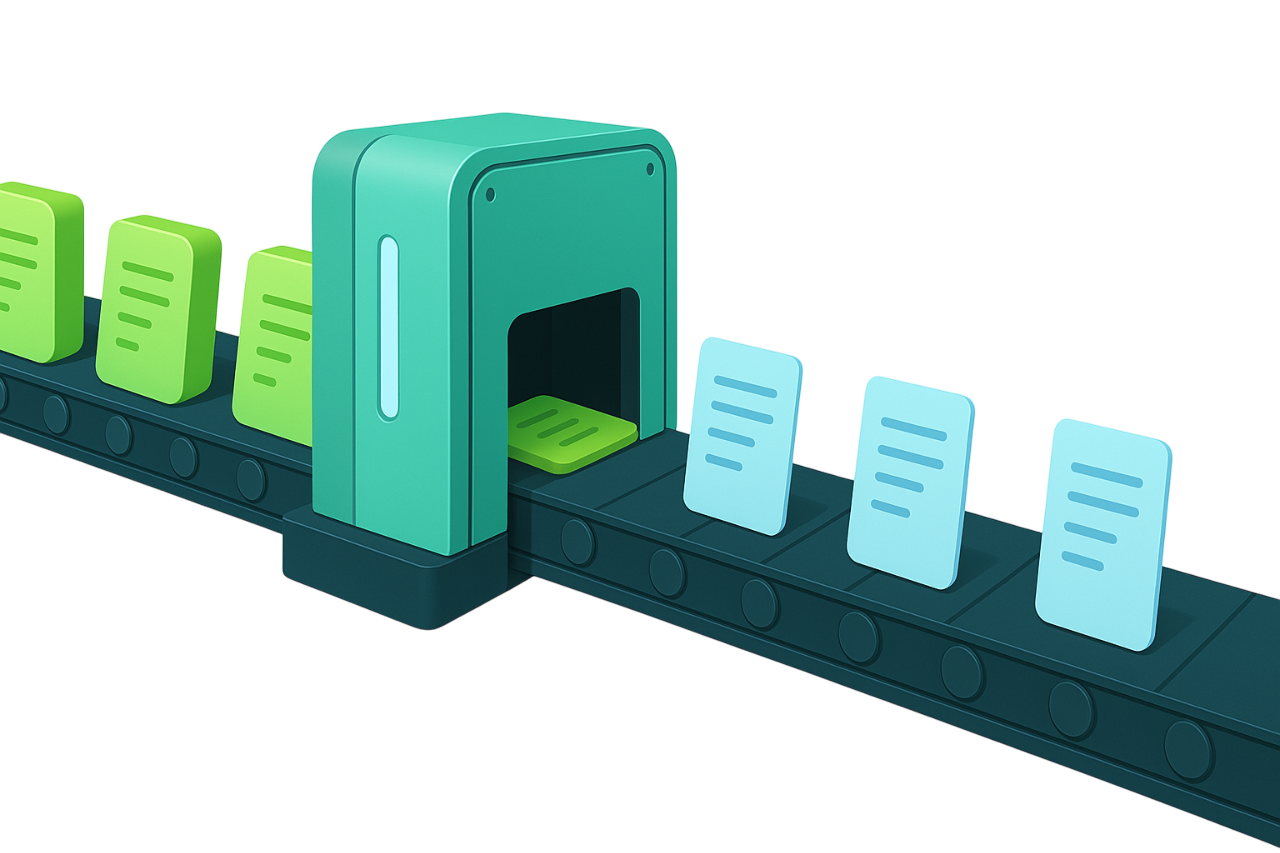
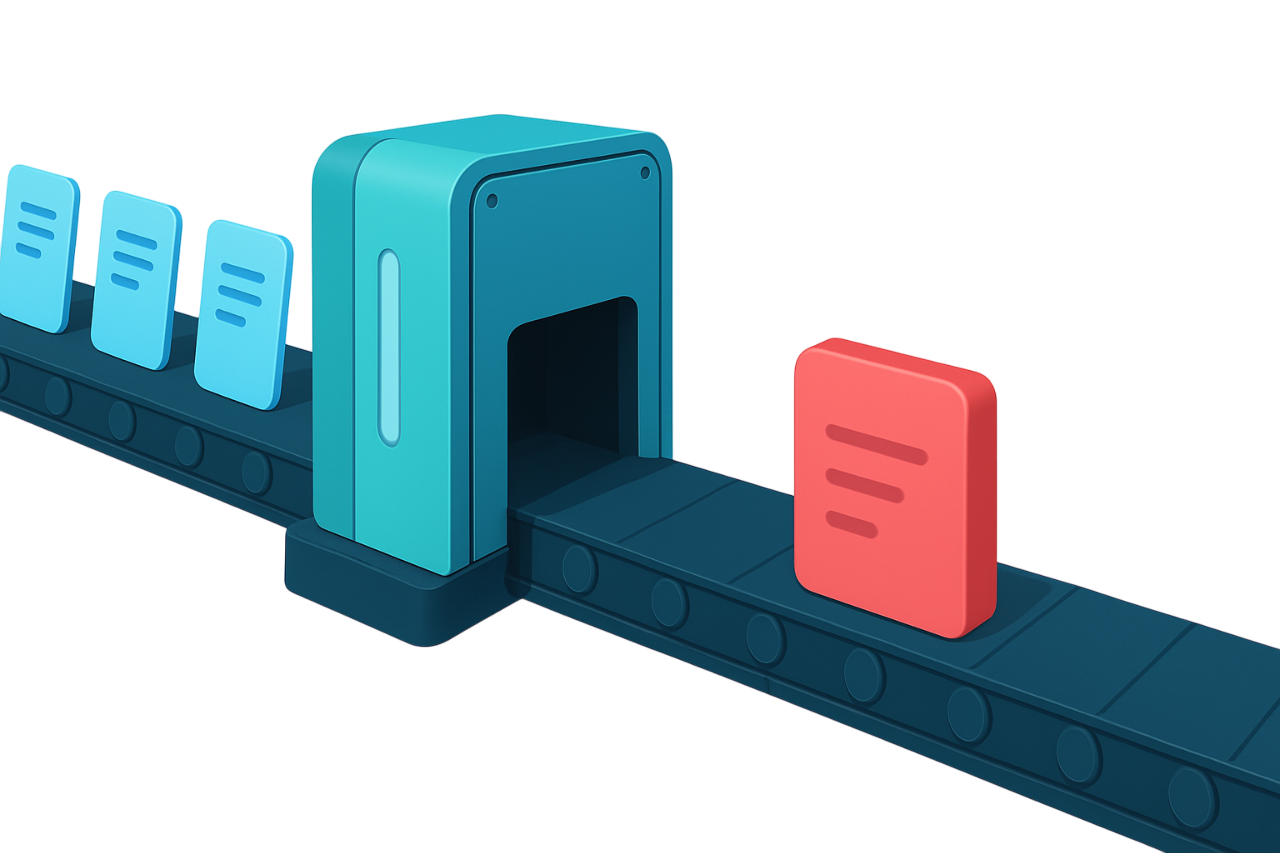
merger functionality

diff --git a/data/lm_studio.py b/data/lm_studio.py
@@ -5,12 +5,28 @@ import os
 from data.prompt import get_prompt
 from data.config import LLM_API_URL
 
-def send_to_lm_studio(text_path):
-    """Send text data to LM Studio API and return the response."""
+def send_to_lm_studio(text_path, text_path2=None):
+    """Send text data to LM Studio API and return the response.
+    
+    Args:
+        text_path: Path to the first text file (required)
+        text_path2: Path to the second text file (optional)
+    """
     try:
-        # Read text content
+        # Read first text content
         with open(text_path, 'r', encoding='utf-8') as text_file:
-            text_content = text_file.read().strip()
+            text_content1 = text_file.read().strip()
+        
+        # Read second text content if provided
+        text_content2 = None
+        if text_path2:
+            try:
+                with open(text_path2, 'r', encoding='utf-8') as text_file2:
+                    text_content2 = text_file2.read().strip()
+                logging.debug(f"Processing second text file: {text_path2.name}")
+            except Exception as e:
+                logging.warning(f"Error reading second file {text_path2}: {str(e)}")
+                text_content2 = None
         
         prompt = get_prompt()
         
@@ -20,13 +36,23 @@ def send_to_lm_studio(text_path):
         # Get model name from environment variable or use default
         model_name = os.environ.get("LLM_MODEL_NAME")
         
+        # Construct content based on whether we have one or two documents
+        content = prompt + "\n\n-------\n\n📄 Document A:\n" + text_content1
+        
+        # Add Document B section only if we have a second document
+        if text_content2:
+            content += "\n\n-------\n\n📄 Document B:\n" + text_content2
+        
+        # Add the final instruction
+        content += "\n\n---\n\nPlease return only the merged result using the structure provided."
+        
         # Modify payload to use text-only format
         payload = {
             "model": model_name,
             "messages": [
                 {
                     "role": "user",
-                    "content": prompt + "\n\n" + text_content
+                    "content": content
                 }
             ],
             "temperature": 0.7

diff --git a/main.py b/main.py
@@ -16,7 +16,7 @@ from data.batch_manager import setup_batch_folders
 from data.lm_studio import send_to_lm_studio
 from data.display_manager import init_progress, update_description, write_message, print_summary
 
-def process_images():
+def process_data():
     """Main function to process all text files in the input directory."""
     try:
         # Load settings and set up batch folders
@@ -46,13 +46,17 @@ def process_images():
 
         # Initialize the progress bar using our display manager module.
         pbar = init_progress(total_files)
+        
+        # Track the last output file path for chaining
+        last_output_file = None
 
         # Process each text file
         for text_path in text_files:
             update_description(pbar, text_path.name)
             iteration_start = time.time()
 
-            response = send_to_lm_studio(text_path)  # Assuming this function can handle text files
+            # Pass the last output file as the second parameter if available
+            response = send_to_lm_studio(text_path, last_output_file)  # Pass second parameter if available
             if response:
                 try:
                     # Save the API response to a file with UTF-8 encoding to handle special characters
@@ -60,6 +64,10 @@ def process_images():
                     with open(output_file, 'w', encoding='utf-8') as f:
                         f.write(response)
                     write_message(pbar, f"[+] Saved response for {text_path.name}")
+                    
+                    # Update the last output file path for the next iteration
+                    last_output_file = output_file
+                    write_message(pbar, f"[+] Set {output_file.name} as input for next file")
 
                     # Move text file after successful processing.
                     new_text_path = batch_input / text_path.name
@@ -103,4 +111,4 @@ def process_images():
         print(error_msg)
 
 if __name__ == "__main__":
-    process_images()
+    process_data()
